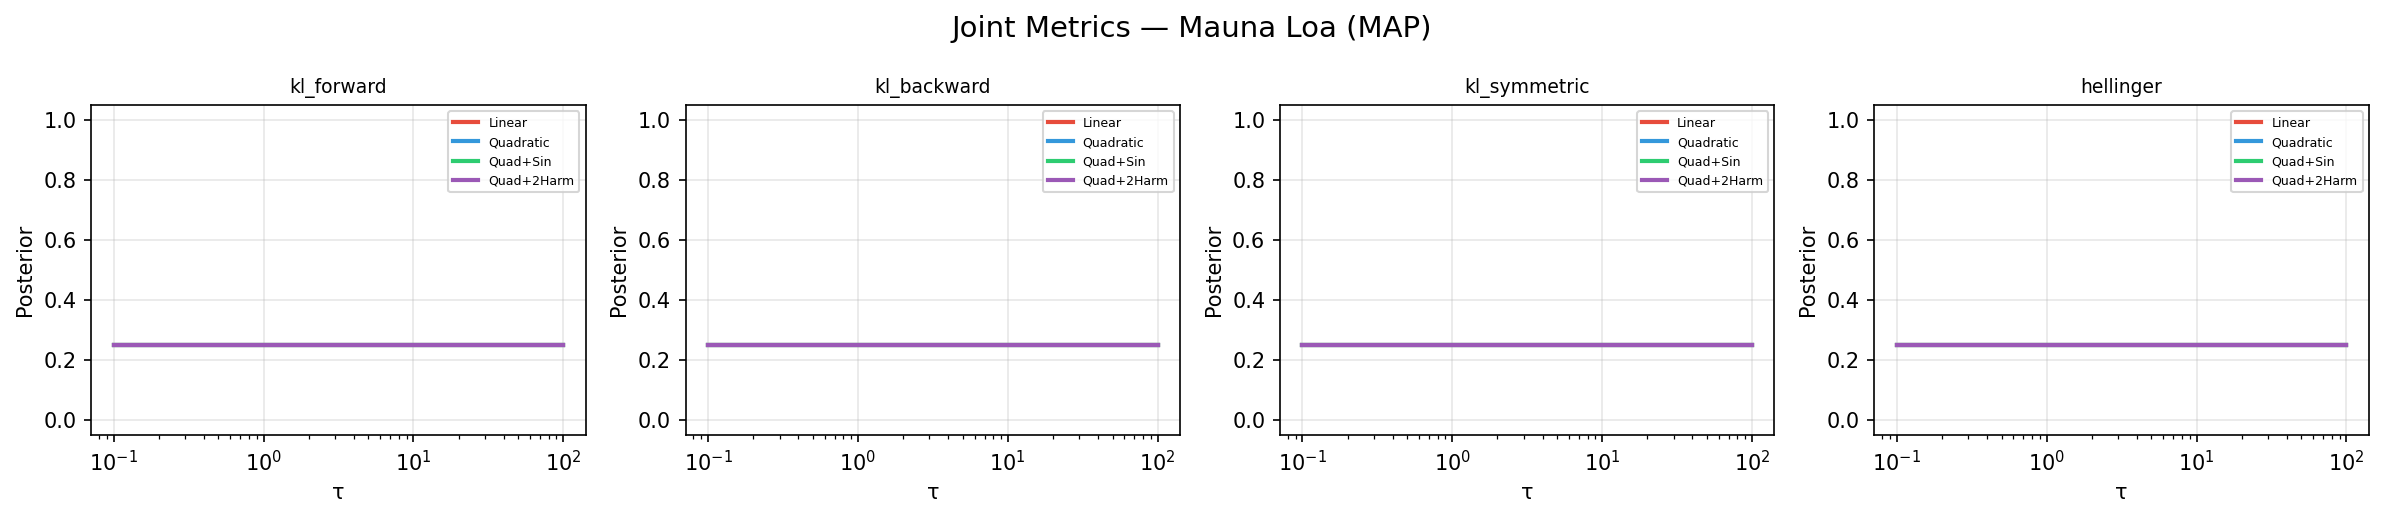
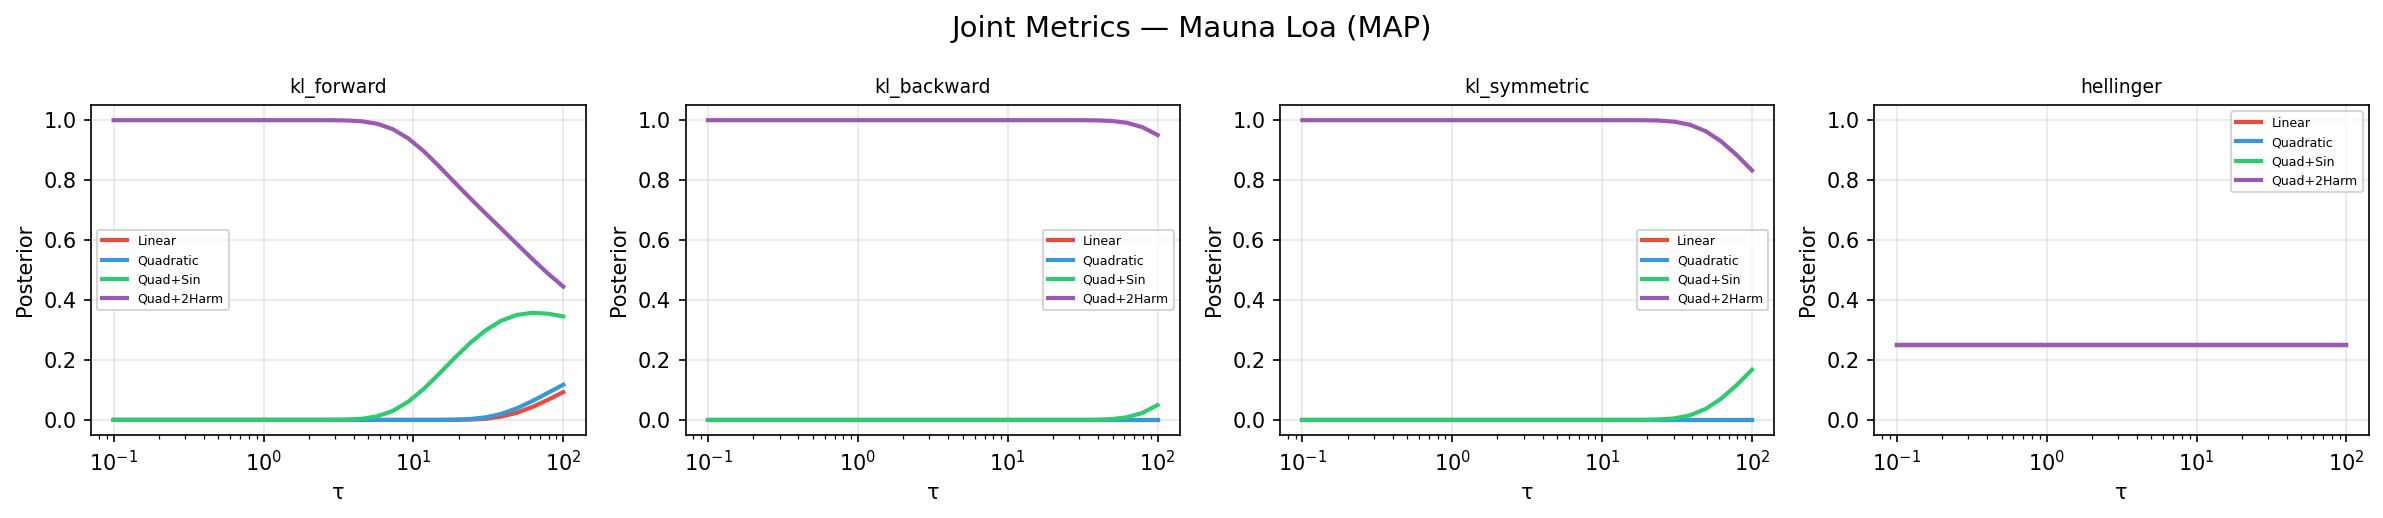
fixing map induction of priors maunaloa

diff --git a/bistar_gp/bms_star.py b/bistar_gp/bms_star.py
@@ -422,7 +422,7 @@ def soft_transfer(G_matrix: np.ndarray, tau: float,
     # score(θ_j) = (1/N) Σ_i exp(-G_ij / τ)
     log_weights = -G_matrix / tau
     # Numerical stability: subtract max per column
-    log_weights_shifted = log_weights - log_weights.max(axis=0, keepdims=True)
+    log_weights_shifted = log_weights - log_weights.max(axis=1, keepdims=True)
     weights = np.exp(log_weights_shifted)
     instance_scores = weights.mean(axis=0)
 
